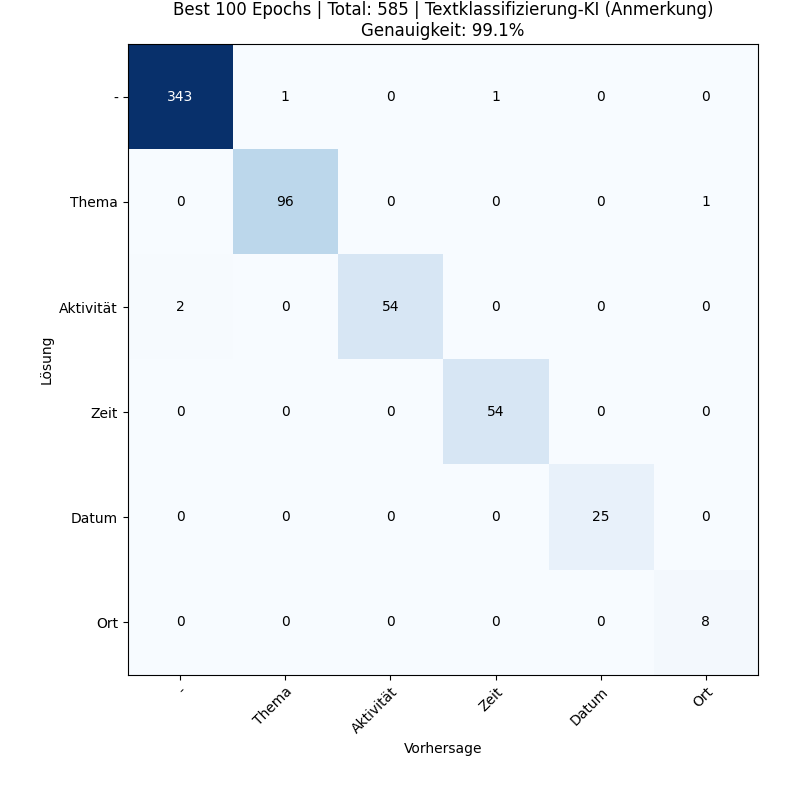
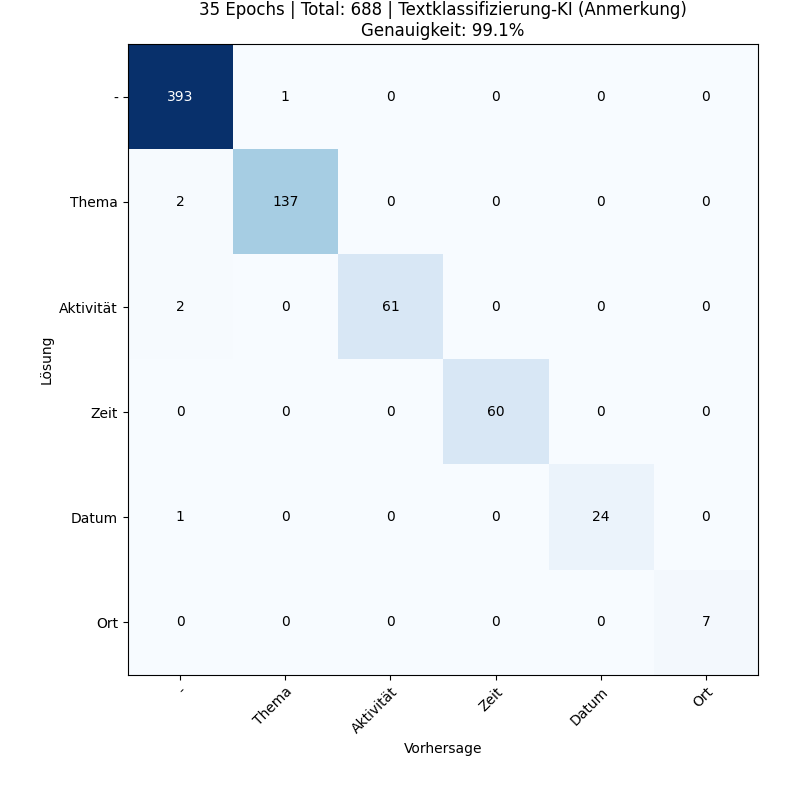
update intent

diff --git a/neural_network/nn_textklassifizierung/train.py b/neural_network/nn_textklassifizierung/train.py
@@ -32,7 +32,7 @@ def train():
     
     joblib.dump(meta_data, config.TEXTKLASSIFIZIERUNG_META_PATH)
  
-    (train_satze, val_satze, train_anmerkung, val_anmerkung, train_absicht, val_absicht, train_szenario, val_szenario) = model_selection.train_test_split(satze, target_anmerkung, target_absicht, target_szenario, random_state=42, test_size=0.1) # stratify=target_absicht
+    train_satze, val_satze, train_anmerkung, val_anmerkung, train_absicht, val_absicht, train_szenario, val_szenario = model_selection.train_test_split(satze, target_anmerkung, target_absicht, target_szenario, random_state=42, test_size=0.1, stratify=target_szenario) # stratify=target_absicht
     
     # train
     train_dataset = neural_network.nn_textklassifizierung.utils.SatzDataset(train_satze, train_anmerkung, train_absicht, train_szenario)
@@ -64,6 +64,7 @@ def train():
     )
     
     best_loss = np.inf
+    best_epochs = 1
     best_preds_anmerkung_array = []
     best_loesung_anmerkung_array = []
     best_preds_absicht_array = []
@@ -122,6 +123,7 @@ def train():
             os.makedirs(os.path.dirname(config.TEXTKLASSIFIZIERUNG_TRAINED_PATH), exist_ok=True)
             torch.save(model.state_dict(), config.TEXTKLASSIFIZIERUNG_TRAINED_PATH)
             best_loss = val_loss
+            best_epochs = epoch + 1
             print(f'Validation Loss: {best_loss}, neues Modell')
         else:
             print(f'Validation Loss: {val_loss}')
@@ -134,9 +136,9 @@ def train():
     
     flat_preds_anmerkung_array = [item for sublist in best_preds_anmerkung_array for item in sublist]
     flat_loesung_anmerkung_array = [item for sublist in best_loesung_anmerkung_array for item in sublist]
-    neural_network.utils.show_conf_matrix(flat_preds_anmerkung_array, flat_loesung_anmerkung_array, confusion_matrix_anmerkung_class, f"Best {config.TEXTKLASSIFIZIERUNG_EPOCHS} Epochs | Total: {len(flat_preds_anmerkung_array)} | Textklassifizierung-KI (Anmerkung)", plot=True)
-    neural_network.utils.show_conf_matrix(best_preds_absicht_array, best_loesung_absicht_array, confusion_matrix_absicht_class, f"Best {config.TEXTKLASSIFIZIERUNG_EPOCHS} Epochs | Total: {len(best_preds_absicht_array)} | Textklassifizierung-KI (Absicht)", plot=True)
-    neural_network.utils.show_conf_matrix(best_preds_szenario_array, best_loesung_szenario_array, confusion_matrix_szenario_class, f"Best {config.TEXTKLASSIFIZIERUNG_EPOCHS} Epochs | Total: {len(best_preds_szenario_array)} | Textklassifizierung-KI (Szenario)", plot=True)
+    neural_network.utils.show_conf_matrix(flat_preds_anmerkung_array, flat_loesung_anmerkung_array, confusion_matrix_anmerkung_class, f"{best_epochs} Epochs | Total: {len(flat_preds_anmerkung_array)} | Textklassifizierung-KI (Anmerkung)", plot=True)
+    neural_network.utils.show_conf_matrix(best_preds_absicht_array, best_loesung_absicht_array, confusion_matrix_absicht_class, f"{best_epochs} Epochs | Total: {len(best_preds_absicht_array)} | Textklassifizierung-KI (Absicht)", plot=True)
+    neural_network.utils.show_conf_matrix(best_preds_szenario_array, best_loesung_szenario_array, confusion_matrix_szenario_class, f"{best_epochs} Epochs | Total: {len(best_preds_szenario_array)} | Textklassifizierung-KI (Szenario)", plot=True)
 
     absicht_szenario_label = []
     absicht_szenario_vorhersage = []
@@ -159,7 +161,7 @@ def train():
 
     absicht_szenario_label = [f"{presenter_textklassifizierung.such_szenario(encoder_szenario.classes_[szenario])} {presenter_textklassifizierung.such_absicht(encoder_absicht.classes_[absicht])}" for szenario, absicht in absicht_szenario_label]
     
-    neural_network.utils.show_conf_matrix(absicht_szenario_vorhersage, absicht_szenario_loesung, absicht_szenario_label, f"Best {config.TEXTKLASSIFIZIERUNG_EPOCHS} Epochs | Total: {len(absicht_szenario_vorhersage)} | Textklassifizierung-KI (Absicht + Szenario)", plot=True)
+    neural_network.utils.show_conf_matrix(absicht_szenario_vorhersage, absicht_szenario_loesung, absicht_szenario_label, f"{best_epochs} Epochs | Total: {len(absicht_szenario_vorhersage)} | Textklassifizierung-KI (Absicht + Szenario)", plot=True)
 
     anmerkung_absicht_szenario_label = []
     anmerkung_absicht_szenario_vorhersage = []
@@ -182,4 +184,4 @@ def train():
             anmerkung_absicht_szenario_loesung.append(index_loesung)
 
     anmerkung_absicht_szenario_label = [ (presenter_textklassifizierung.such_anmerkung(positive_anmerkung_class[anmerkung]), f"{presenter_textklassifizierung.such_szenario(encoder_szenario.classes_[szenario])} {presenter_textklassifizierung.such_absicht(encoder_absicht.classes_[absicht])}") for anmerkung, szenario, absicht in anmerkung_absicht_szenario_label]
-    neural_network.utils.show_conf_matrix(anmerkung_absicht_szenario_vorhersage, anmerkung_absicht_szenario_loesung, anmerkung_absicht_szenario_label, f"Best {config.TEXTKLASSIFIZIERUNG_EPOCHS} Epochs | Total: {len(anmerkung_absicht_szenario_vorhersage)} | Textklassifizierung-KI (Anmerkung + Absicht + Szenario)", plot=True)
+    neural_network.utils.show_conf_matrix(anmerkung_absicht_szenario_vorhersage, anmerkung_absicht_szenario_loesung, anmerkung_absicht_szenario_label, f"{best_epochs} Epochs | Total: {len(anmerkung_absicht_szenario_vorhersage)} | Textklassifizierung-KI (Anmerkung + Absicht + Szenario)", plot=True)

diff --git a/intents/youtube_intent.py b/intents/youtube_intent.py
@@ -5,10 +5,13 @@ import subprocess
 import config
 from urllib.parse import quote
 from intents.datenkonverter import Datenkonverter
+from intents.datenkonverter import Datenkonverter
+from selenium import webdriver
+from selenium.webdriver.chrome.options import Options
 
 class YoutubeIntent(Datenkonverter):
     def __init__(self, system_presenter, text_to_speech):
-        self.prozess = None
+        self.driver = None
         self.gesuchte_videos_list = []
         self.gesuchte_videos_index = 0
         self.YOUTUBE_FILE_PATH = f"{config.YOUTUBE_FILE_DIR}/{config.YOUTUBE_FILE_NAME}"
@@ -43,13 +46,13 @@ class YoutubeIntent(Datenkonverter):
                     is_live = video_info.get('is_live', False)
 
                     if is_live:
-                        print(f"Video {video_titel} ist ein Livestream. Download abgebrochen.")
-                        return f"Such nach einem anderen Video", 2
+                        print(f"{video_titel} ist ein Livestream. Download abgebrochen.")
+                        return f"Dieses Video ist zu lang", 2
                         
                     self.text_to_speech.text_to_speech(f"{video_titel} herunterladen")
                     if video_duration > config.MAX_YOUTUBE_FILE * 60:
-                        print(f"Video {video_titel} ist zu lang (>{config.MAX_YOUTUBE_FILE} Minuten). Download abgebrochen.")
-                        return f"Such nach einem anderen Video", 2
+                        print(f"{video_titel} ist zu lang (>{config.MAX_YOUTUBE_FILE} Minuten). Download abgebrochen.")
+                        return f"Dieses Video ist zu lang", 2
                 if os.path.exists(self.YOUTUBE_FILE_PATH):
                     os.remove(self.YOUTUBE_FILE_PATH)
 
@@ -79,23 +82,34 @@ class YoutubeIntent(Datenkonverter):
                 return f"Fehler beim Herunterladen von {video_titel}", 1
         else:
             return f"Ich habe kein Video gefunden.", 1
-
-    def video_abspielen(self):
-        if self.prozess:
-            self.aktion_abbrechen()
         
+    def video_abspielen(self):
+        if len(self.gesuchte_videos_list) > 0:
+            self.text_to_speech.text_to_speech(f"Moment bitte")
+            video_titel, video_id = self.gesuchte_videos_list[self.gesuchte_videos_index]
+            options = Options()
+            options.headless = False
+            options.add_argument("--autoplay-policy=no-user-gesture-required")
+            driver = webdriver.Chrome(options=options)
+            driver.get(f"https://www.youtube.com/embed/{video_id}?autoplay=1")
+            self.driver = driver
+            return f"der Titel is {video_titel}", None
+        else:
+            return f"Ich habe kein Video gefunden.", 1
+
+    def video_herunterladen_abspielen(self, is_neues_playlist):
         self.text_to_speech.text_to_speech("suche ein Video zum Herunterladen")
         message = None
         while True:
             message, error = self.download_video_as_audio()
-            if error == 2:
-                self.text_to_speech.text_to_speech(message)
+            if error == 2 and is_neues_playlist:
+                self.text_to_speech.text_to_speech(f"Such nach einem anderen Video, denn {message}")
                 del self.gesuchte_videos_list[self.gesuchte_videos_index]
             else:
                 break
         if not error:
-            self.prozess = subprocess.Popen("start " + self.YOUTUBE_FILE_PATH, shell=True)
-            # os.system("start " + self.YOUTUBE_FILE_PATH)
+            # self.prozess = subprocess.Popen("start " + self.YOUTUBE_FILE_PATH, shell=True)
+            os.system("start " + self.YOUTUBE_FILE_PATH)
             return None, None
         else:
             return message, None
@@ -118,10 +132,12 @@ class YoutubeIntent(Datenkonverter):
     
     # von system_intent aufgerufen
     def aktion_abbrechen(self):
-        self.prozess.terminate()
-        self.prozess = None
-        return "Video wurde abgebrochen", None
-    
+        if self.driver:
+            self.driver.quit()
+            return "das Video wurde geschlossen", None
+        else:
+            return "kein Vorgang gefunden", None
+            
     ########################################################
 
     # von engine aufgerufen
@@ -133,3 +149,13 @@ class YoutubeIntent(Datenkonverter):
         self.system_presenter.intent_presenter = self # bei system_intent anmelden
         self.get_videos(i_thema)
         return self.video_abspielen()
+    
+    # von engine aufgerufen
+    def herunterladen(self, i_thema):
+        is_neues_playlist = None
+        if i_thema:
+            self.system_presenter.intent_presenter = self
+            self.get_videos(i_thema)
+            is_neues_playlist = 1
+            
+        return self.video_herunterladen_abspielen(is_neues_playlist)

diff --git a/intents/search_engine_intent.py b/intents/search_engine_intent.py
@@ -3,9 +3,7 @@ import config
 from urllib.parse import quote
 from intents.datenkonverter import Datenkonverter
 from selenium import webdriver
-from selenium.webdriver.chrome.service import Service
 from selenium.webdriver.chrome.options import Options
-from webdriver_manager.chrome import ChromeDriverManager
 
 class SearchEngineIntent(Datenkonverter):
     def __init__(self, system_presenter, text_to_speech):
@@ -28,15 +26,18 @@ class SearchEngineIntent(Datenkonverter):
             self.gesuchte_websites_list.append((website_title, website_url))
 
     def website_oeffnen(self):
-        self.text_to_speech.text_to_speech(f"Moment bitte")
-        website_titel, website_url = self.gesuchte_websites_list[self.gesuchte_websites_index]
-        options = Options()
-        options.headless = False
-        driver = webdriver.Chrome() # service=Service(ChromeDriverManager().install()), options=options
-        driver.get(website_url)
-        self.driver = driver
-        print("Link:", website_url)
-        return f"der Titel is {website_titel}", None
+        if len(self.gesuchte_websites_list) > 0:
+            self.text_to_speech.text_to_speech(f"Moment bitte")
+            website_titel, website_url = self.gesuchte_websites_list[self.gesuchte_websites_index]
+            options = Options()
+            options.headless = False
+            driver = webdriver.Chrome(options=options) # service=Service(ChromeDriverManager().install()), options=options
+            driver.get(website_url)
+            self.driver = driver
+            print("Link:", website_url)
+            return f"der Titel is {website_titel}", None
+        else:
+            return f"Ich habe keine Website gefunden.", 1
     
     ########################################################
 
@@ -59,7 +60,7 @@ class SearchEngineIntent(Datenkonverter):
     def aktion_abbrechen(self):
         if self.driver:
             self.driver.quit()
-            return "website wurde geschlosses", None
+            return "die Website wurde geschlossen", None
         else:
             return "kein Vorgang gefunden", None
     

diff --git a/utils/engine/processor.py b/utils/engine/processor.py
@@ -253,6 +253,14 @@ class EngineProcessor:
                                         return "verstehe"
                         else:
                             return None
+                        
+                case (config.SZENARIO_YOUTUBE, config.ABSICHT_HERUNTERLADEN): # Youtube-Video herunterladen
+                    intent_result, error_result = self.youtube_intent.herunterladen(t_thema)
+                    if not error_result:
+                        return intent_result
+                    else:
+                        return "Youtube Intent Error!"
+                    
                 ################################### # Search Engine
                 case (config.SZENARIO_SEARCH_ENGINE, config.ABSICHT_ABFRAGEN): # abfragen
                     while True:

diff --git a/utils/data_controller/textklassifizierung_controller/model_textklassifizierung.py b/utils/data_controller/textklassifizierung_controller/model_textklassifizierung.py
@@ -73,7 +73,7 @@ class ModelTextklassifizierung:
             "Wetter",
             "Studienordnung",
             "Wikipedia",
-            "ToDo",
+            "Todo",
             "Uhrzeit",
             "Datum",
             "System",
@@ -87,7 +87,8 @@ class ModelTextklassifizierung:
             "zurückgehen",
             "weitermachen",
             "wiederholen",
-            "abbrechen"
+            "abbrechen",
+            "herunterladen"
         ]
 
         for anmerkung in anmerkung_array:

diff --git a/config.py b/config.py
@@ -81,6 +81,7 @@ ABSICHT_ZURUECKGEHEN = 4
 ABSICHT_WEITERGEHEN = 5
 ABSICHT_WIEDERHOLEN = 6
 ABSICHT_ABBRECHEN = 7
+ABSICHT_HERUNTERLADEN = 8
 
 SZENARIO_WETTER = 1
 SZENARIO_STUDIENORDNUNG = 2

diff --git a/README.md b/README.md
@@ -165,9 +165,17 @@ Um mehr über die Architektur des Projekts zu erfahren, siehe die [Architektur-D
 - Was ist der Amazonas?
 - Wer war Albert Einstein?
 - Was ist die Berliner Mauer?
-- Was ist das Internet?
+- Gib mir mehr Informationen über Nanotechnologie
 - Wer war Ludwig van Beethoven?
-- Was ist die Mona Lisa?
+- Was fällt unter den Begriff Ethik
+- Was bedeutet Python?
+- Definiere maschinelles Lernen.
+- Erkläre was ein Algorithmus ist.
+- Erkläre den Begriff Quantenphysik?
+- Gib mir die Definition von Künstliche Intelligenz?
+- Was versteht man unter Demokratie?
+- Was ist der Begriff Nachhaltigkeit?
+- Was ist damit gemeint, wenn von Cybersecurity gesprochen wird?
 - [mehr](https://github.com/anastasia98s/PS2/blob/Wikipedia-Intent/testdaten_2.txt)
 
 ## Suchintent Wetter
@@ -188,13 +196,19 @@ Um mehr über die Architektur des Projekts zu erfahren, siehe die [Architektur-D
    - Wie wird das Wetter in Berlin?
 
 ## Suchintent Youtube
-- Such nach dem Podcast über Künstliche Intelligenz auf YouTube
-- Finde den Podcast von Fest und Flauschig auf YouTube
-- Such nach Musik von Beethoven auf YouTube
-- Spiel Let It Be von The Beatles auf YouTube
-- Such nach Shape of You auf YouTube
-- Finde ein Video über gesunde Ernährung
-- Such nach einem Video über Tipps für bessere Fotografie
+- **Youtube abspielen**
+   - Such nach dem Podcast über Künstliche Intelligenz auf YouTube
+   - Finde den Podcast von Fest und Flauschig auf YouTube
+   - Such nach Musik von Beethoven auf YouTube
+   - Spiel Let It Be von The Beatles auf YouTube
+   - Such nach Shape of You auf YouTube
+   - Finde ein Video über gesunde Ernährung
+   - Such nach einem Video über Tipps für bessere Fotografie
+   - Spiel ein Video über AI ab
+- **Youtube herunterladen (als Audio)**
+   - Lade das neueste Video von PewDiePie herunter
+   - Lade ein lustiges Video herunter
+   - Lade dieses Video herunter
 
 ## Suchintent Search Engine
 - Such nach einem Hotel in Berlin
@@ -212,7 +226,6 @@ Um mehr über die Architektur des Projekts zu erfahren, siehe die [Architektur-D
 - Vegane Lasagne Rezept
 - Finde ein Rezept für indisches Curry
 - Such nach einem Rezept für Pfannkuchen
-- Finde ein Rezept für Linsensuppe
 
 ## System Befehle (für Intent)
 - Gehe zurück
